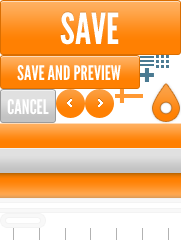
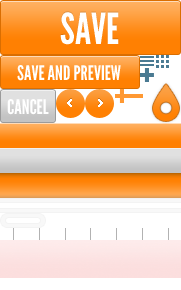
Updated error display.

diff --git a/jcsdl/jcsdl.css b/jcsdl/jcsdl.css
@@ -70,7 +70,7 @@
     display: block;
     height: 34px;
     width: 140px;
-    background: url("img/elements.png?10") no-repeat 0 -55px; }
+    background: url("img/elements.png?11") no-repeat 0 -55px; }
     .jcsdl-container .jcsdl-button.jcsdl-editor-cancel, .jcsdl-container .jcsdl-button.jcsdl-filter-cancel {
       width: 56px;
       background-position: 0 -89px; }
@@ -99,6 +99,31 @@
       float: left;
       overflow: hidden;
       margin-bottom: 5px; }
+  .jcsdl-container .jcsdl-error {
+    display: block;
+    margin: 10px 20px;
+    padding: 0 10px;
+    height: 38px;
+    line-height: 38px;
+    overflow: hidden;
+    text-align: left;
+    border: 1px solid #fbd2d2;
+    -webkit-border-radius: 3px;
+    -khtml-border-radius: 3px;
+    -moz-border-radius: 3px;
+    -ms-border-radius: 3px;
+    -o-border-radius: 3px;
+    border-radius: 3px;
+    -moz-background-clip: padding;
+    -webkit-background-clip: padding-box;
+    background-clip: padding-box;
+    background: url("img/elements.png?11") repeat-x center -240px; }
+    .jcsdl-container .jcsdl-error strong {
+      color: red;
+      font-weight: bold; }
+    .jcsdl-container .jcsdl-error span {
+      color: #222;
+      margin-left: 5px; }
   .jcsdl-container .jcsdl-mainview .jcsdl-header, .jcsdl-container .jcsdl-mainview .jcsdl-header h3 {
     line-height: 38px; }
   .jcsdl-container .jcsdl-mainview-actions {
@@ -118,7 +143,7 @@
       display: block;
       width: 14px;
       height: 14px;
-      background: url("img/elements.png?10") no-repeat -140px -68px; }
+      background: url("img/elements.png?11") no-repeat -140px -68px; }
     .jcsdl-container .jcsdl-mainview-action.jcsdl-add-filter {
       margin-right: 0; }
   .jcsdl-container .jcsdl-mainview-mode {
@@ -139,7 +164,7 @@
     display: block;
     width: 13px;
     height: 13px;
-    background: url("img/elements.png?10") no-repeat -140px -55px;
+    background: url("img/elements.png?11") no-repeat -140px -55px;
     -ms-filter: "progid:DXImageTransform.Microsoft.Alpha(Opacity=$opacity * 10)";
     filter: alpha(opacity=3);
     -moz-opacity: 0.3;
@@ -283,7 +308,7 @@
     height: 29px;
     line-height: 29px;
     text-align: center;
-    background: transparent url("img/elements.png?10") no-repeat -56px -89px; }
+    background: transparent url("img/elements.png?11") no-repeat -56px -89px; }
     .jcsdl-container .jcsdl-carousel-scroll.right {
       float: right;
       background-position: -85px -89px; }
@@ -411,7 +436,7 @@
       line-height: 25px;
       font-size: 13px;
       color: #3a3a3a;
-      background: url("img/elements.png?10") repeat-x 0 -148px;
+      background: url("img/elements.png?11") repeat-x 0 -148px;
       border: 1px solid #9b9b9b;
       -webkit-border-radius: 3px;
       -khtml-border-radius: 3px;
@@ -451,7 +476,7 @@
         display: block;
         width: 14px;
         height: 14px;
-        background: transparent url("img/elements.png?10") no-repeat -115px -89px;
+        background: transparent url("img/elements.png?11") no-repeat -115px -89px;
         -ms-filter: "progid:DXImageTransform.Microsoft.Alpha(Opacity=$opacity * 10)";
         filter: alpha(opacity=7);
         -moz-opacity: 0.7;
@@ -521,7 +546,7 @@
       margin-bottom: 7px;
       height: 12px;
       cursor: pointer;
-      background: transparent url("img/elements.png?10") repeat-x center -228px;
+      background: transparent url("img/elements.png?11") repeat-x center -228px;
       border: 0;
       -webkit-border-radius: 0px;
       -khtml-border-radius: 0px;
@@ -539,7 +564,7 @@
         width: 30px;
         height: 40px;
         cursor: pointer;
-        background: transparent url("img/elements.png?10") no-repeat -152px -83px;
+        background: transparent url("img/elements.png?11") no-repeat -152px -83px;
         border: 0;
         outline: none; }
     .jcsdl-container .jcsdl-input-slider .jcsdl-slider-bottom {
@@ -552,7 +577,7 @@
         width: 15px;
         height: 15px;
         float: left;
-        background: transparent url("img/elements.png?10") no-repeat 0 -213px; }
+        background: transparent url("img/elements.png?11") no-repeat 0 -213px; }
       .jcsdl-container .jcsdl-input-slider .jcsdl-slider-bottom .jcsdl-slider-bottom-right {
         float: right;
         background-position: -31px -213px; }
@@ -560,7 +585,7 @@
         display: block;
         height: 15px;
         margin: 0 15px;
-        background: transparent url("img/elements.png?10") repeat-x 0 -198px; }
+        background: transparent url("img/elements.png?11") repeat-x 0 -198px; }
   .jcsdl-container .jcsdl-map {
     text-align: center; }
     .jcsdl-container .jcsdl-map .jcsdl-map-search {

diff --git a/jcsdl/jcsdl.scss b/jcsdl/jcsdl.scss
@@ -3,7 +3,7 @@ $color : #376491;
 $colorLight : #888;
 $borderColor : #dcdcdc;
 $borderColorInput : #c8d7de;
-$elementsSprite : 'img/elements.png?10';
+$elementsSprite : 'img/elements.png?11';
 $selectSprite : 'img/select.png?12';
 $stepBackground : 'img/step_background.png?5';
 $targetIconsSprite : 'img/icons-sprite-targets.png?6';
@@ -102,6 +102,17 @@ $otherIconsSprite : 'img/icons-sprite-other.png?2';
 		border-top: 1px dotted $borderColor;
 
 		.jcsdl-actions {float: left; overflow: hidden; margin-bottom: 5px;}
+	}
+
+	.jcsdl-error {
+		display: block; margin: 10px 20px;
+		padding: 0 10px; height: 38px; line-height: 38px; overflow: hidden;
+		text-align: left;
+		border: 1px solid #fbd2d2; @include rounded(3px);
+		background: url($elementsSprite) repeat-x center -240px;
+
+		strong {color: red; font-weight: bold;}
+		span {color: #222; margin-left: 5px;}
 	}
 
 	/*

diff --git a/jcsdl/jcsdl.gui.templates.js b/jcsdl/jcsdl.gui.templates.js
@@ -80,6 +80,13 @@ var JCSDLGuiTemplates = {
 	filterOperator : $('<div class="jcsdl-filter-operator jcsdl-icon operator" />'),
 	filterValue : $('<div class="jcsdl-filter-value" />'),
 
+	error : $([
+		'<div class="jcsdl-error">',
+			'<strong>Error:</strong>',
+			'<span />',
+		'</div>'
+	].join('')),
+
 	/* ##########################
 	 * SINGLE FILTER EDITOR
 	 * ########################## */
@@ -160,7 +167,8 @@ var JCSDLGuiTemplates = {
 	// text input
 	valueInput_text : $([
 		'<div class="jcsdl-input-text">',
-			'<input type="text" placeholder="Type your desired value" />',
+			'<input type="text" placeholder="Type your desired value..." />',
+			//'<input type="text" name="array" placeholder="Type your desired value..." />',
 		'</div>'
 	].join('')),
 

diff --git a/jcsdl/jcsdl.gui.js b/jcsdl/jcsdl.gui.js
@@ -566,8 +566,19 @@ var JCSDLGui = function(el, config) {
 	 * @param  {String} code    Code that caused the error.
 	 */
 	this.showError = function(message, code) {
-		alert(message + "\n\n##################\n\n" + code + "\n\n#####\n\n See console for more info.");
-		console.error(message, arguments);
+		var $error = self.getTemplate('error');
+		$error.find('span').html(message);
+
+		if (self.$mainView.is(':visible')) {
+			$error.insertBefore(self.$mainView.find('.jcsdl-footer'));
+		} else {
+			$error.prependTo(self.$currentFilterView.find('.jcsdl-footer'));
+		}
+		$error.hide().fadeIn();
+
+		if (typeof(console) !== 'undefined') {
+			console.error(message, arguments);
+		}
 	};
 
 	/**
